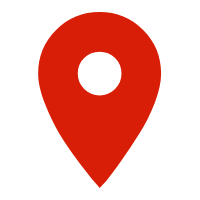
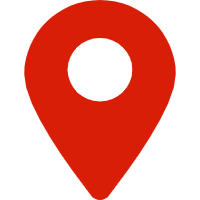
modify

Changed region(s): [[0.12, 0.0, 0.9, 1.0], [0.33, 0.18, 0.69, 0.51]]

diff --git a/src/views/dc/detail.vue b/src/views/dc/detail.vue
@@ -85,7 +85,9 @@
           ></el-table-column>
           <el-table-column label="状态" width="80px">
             <template slot-scope="scope">
-              {{ scope.row.surveyStage | surveyStatus }}
+              <span :class="getClass(scope.row.surveyStage)">
+                {{ scope.row.surveyStage | surveyStatus }}
+              </span>
             </template>
           </el-table-column>
           <el-table-column label="操作" width="80px">
@@ -153,7 +155,7 @@ export default {
         pageIndex: 1,
         pageSize: 10,
         // surveyStage: 1,
-        surveyState: '',
+        surveyStage: '',
         keyword: '',
       },
       selectedTasks: [],
@@ -168,11 +170,13 @@ export default {
   },
   watch: {
     id(val) {
-      this.getTaskField();
-      this.$nextTick(() => {
-        this.getList();
-        this.getTaskStatistic();
-      });
+      if (val) {
+        this.getTaskField();
+        this.$nextTick(() => {
+          this.getList();
+          this.getTaskStatistic();
+        });
+      }
     },
   },
   created() {
@@ -188,6 +192,26 @@ export default {
     surveyStatus,
   },
   methods: {
+    getClass(val) {
+      try {
+        val = val.toString();
+      } catch (error) {
+        console.log('dc getClass', error);
+        return '';
+      }
+      switch (val) {
+        case '0':
+          return 'no-survey';
+        case '1':
+          return 'no-submit';
+        case '2':
+          return 'checking';
+        case '3':
+          return 'check-failed';
+        case '4':
+          return 'finished';
+      }
+    },
     async getTaskField() {
       const params = { taskId: this.id };
       const fields = await task.getTaskField(params);
@@ -233,7 +257,7 @@ export default {
       this.map = e.target;
     },
     handleRowClick(row) {
-      // console.log(row);
+      console.log(row);
     },
     toParticular(id) {
       this.$router.push({ name: 'dc-particular', query: { id } });
@@ -318,6 +342,21 @@ export default {
           font-size: 14px;
         }
       }
+    }
+    .no-survey {
+      color: #909399;
+    }
+    .no-submit {
+      color: #e6a23c;
+    }
+    .checking {
+      color: #409eff;
+    }
+    .check-failed {
+      color: #f56c6c;
+    }
+    .finished {
+      color: #67c23a;
     }
   }
   .my-breadcrumb {

diff --git a/src/views/qx/task-allocation.vue b/src/views/qx/task-allocation.vue
@@ -155,21 +155,11 @@ import vMap from 'components/map/map';
 import vDraw from 'components/draw';
 import list from 'mixins/list';
 import { distributionStatus, distribution } from 'filters';
-import iconLocationRed from 'assets/images/sj/location.png';
-import iconLocationBlue from 'assets/images/sj/location-blue.png';
-import iconLocationYellow from 'assets/images/sj/location-yellow.png';
-const locationRed = new Image();
-locationRed.src = iconLocationRed;
-locationRed.style.height = '20px';
-locationRed.style.width = '20px';
-const locationBlue = new Image();
-locationBlue.src = iconLocationBlue;
-locationBlue.style.height = '20px';
-locationBlue.style.width = '20px';
-const locationYellow = new Image();
-locationYellow.src = iconLocationYellow;
-locationYellow.style.height = '20px';
-locationYellow.style.width = '20px';
+import {
+  locationRed,
+  locationBlue,
+  locationYellow,
+} from '../../configs/icon.config';
 export default {
   name: 'task-allocation',
   components: {

diff --git a/src/configs/icon.config.js b/src/configs/icon.config.js
@@ -1,0 +1,28 @@
+import iconLocationRed from 'assets/images/sj/location.png';
+import iconLocationBlue from 'assets/images/sj/location-blue.png';
+import iconLocationYellow from 'assets/images/sj/location-yellow.png';
+import iconLocationGreen from 'assets/images/sj/location-green.png';
+import iconLocationGrey from 'assets/images/sj/location-grey.png';
+
+function generateImage(icon, height = '20px', width = '20px') {
+  const image = new Image();
+  image.src = icon;
+  image.style.height = height;
+  image.style.width = width;
+
+  return image;
+}
+
+const locationRed = generateImage(iconLocationRed);
+const locationBlue = generateImage(iconLocationBlue);
+const locationYellow = generateImage(iconLocationYellow);
+const locationGreen = generateImage(iconLocationGreen);
+const locationGrey = generateImage(iconLocationGrey);
+
+export {
+  locationRed,
+  locationBlue,
+  locationYellow,
+  locationGreen,
+  locationGrey,
+};

diff --git a/src/components/review/review.vue b/src/components/review/review.vue
@@ -110,11 +110,7 @@ import vImage from 'components/image/image';
 import vVideo from 'components/video/video';
 import { task } from 'api';
 import turf from 'turf';
-import iconLocation from 'assets/images/sj/location.png';
-const img = new Image();
-img.src = iconLocation;
-img.style.height = '20px';
-img.style.width = '20px';
+import { locationRed } from '../../configs/icon.config';
 export default {
   name: 'review',
   components: {
@@ -286,7 +282,7 @@ export default {
       }
     },
     addSymbolLayer(map) {
-      map.addImage('icon-location', img);
+      map.addImage('icon-location', locationRed);
       map.addSource('geo-symbol', {
         type: 'geojson',
         data: {

diff --git a/src/views/sj/detail.vue b/src/views/sj/detail.vue
@@ -87,7 +87,11 @@
           label="调查人员"
           prop="referenceInfo.surverUserName"
         ></el-table-column>
-        <el-table-column label="调查时间" prop="surveyTime" width="180"></el-table-column>
+        <el-table-column
+          label="调查时间"
+          prop="surveyTime"
+          width="180"
+        ></el-table-column>
         <el-table-column label="阶段" width="120">
           <template slot-scope="scope">
             <span :class="getClass(scope.row.checkFlowStage)">{{
